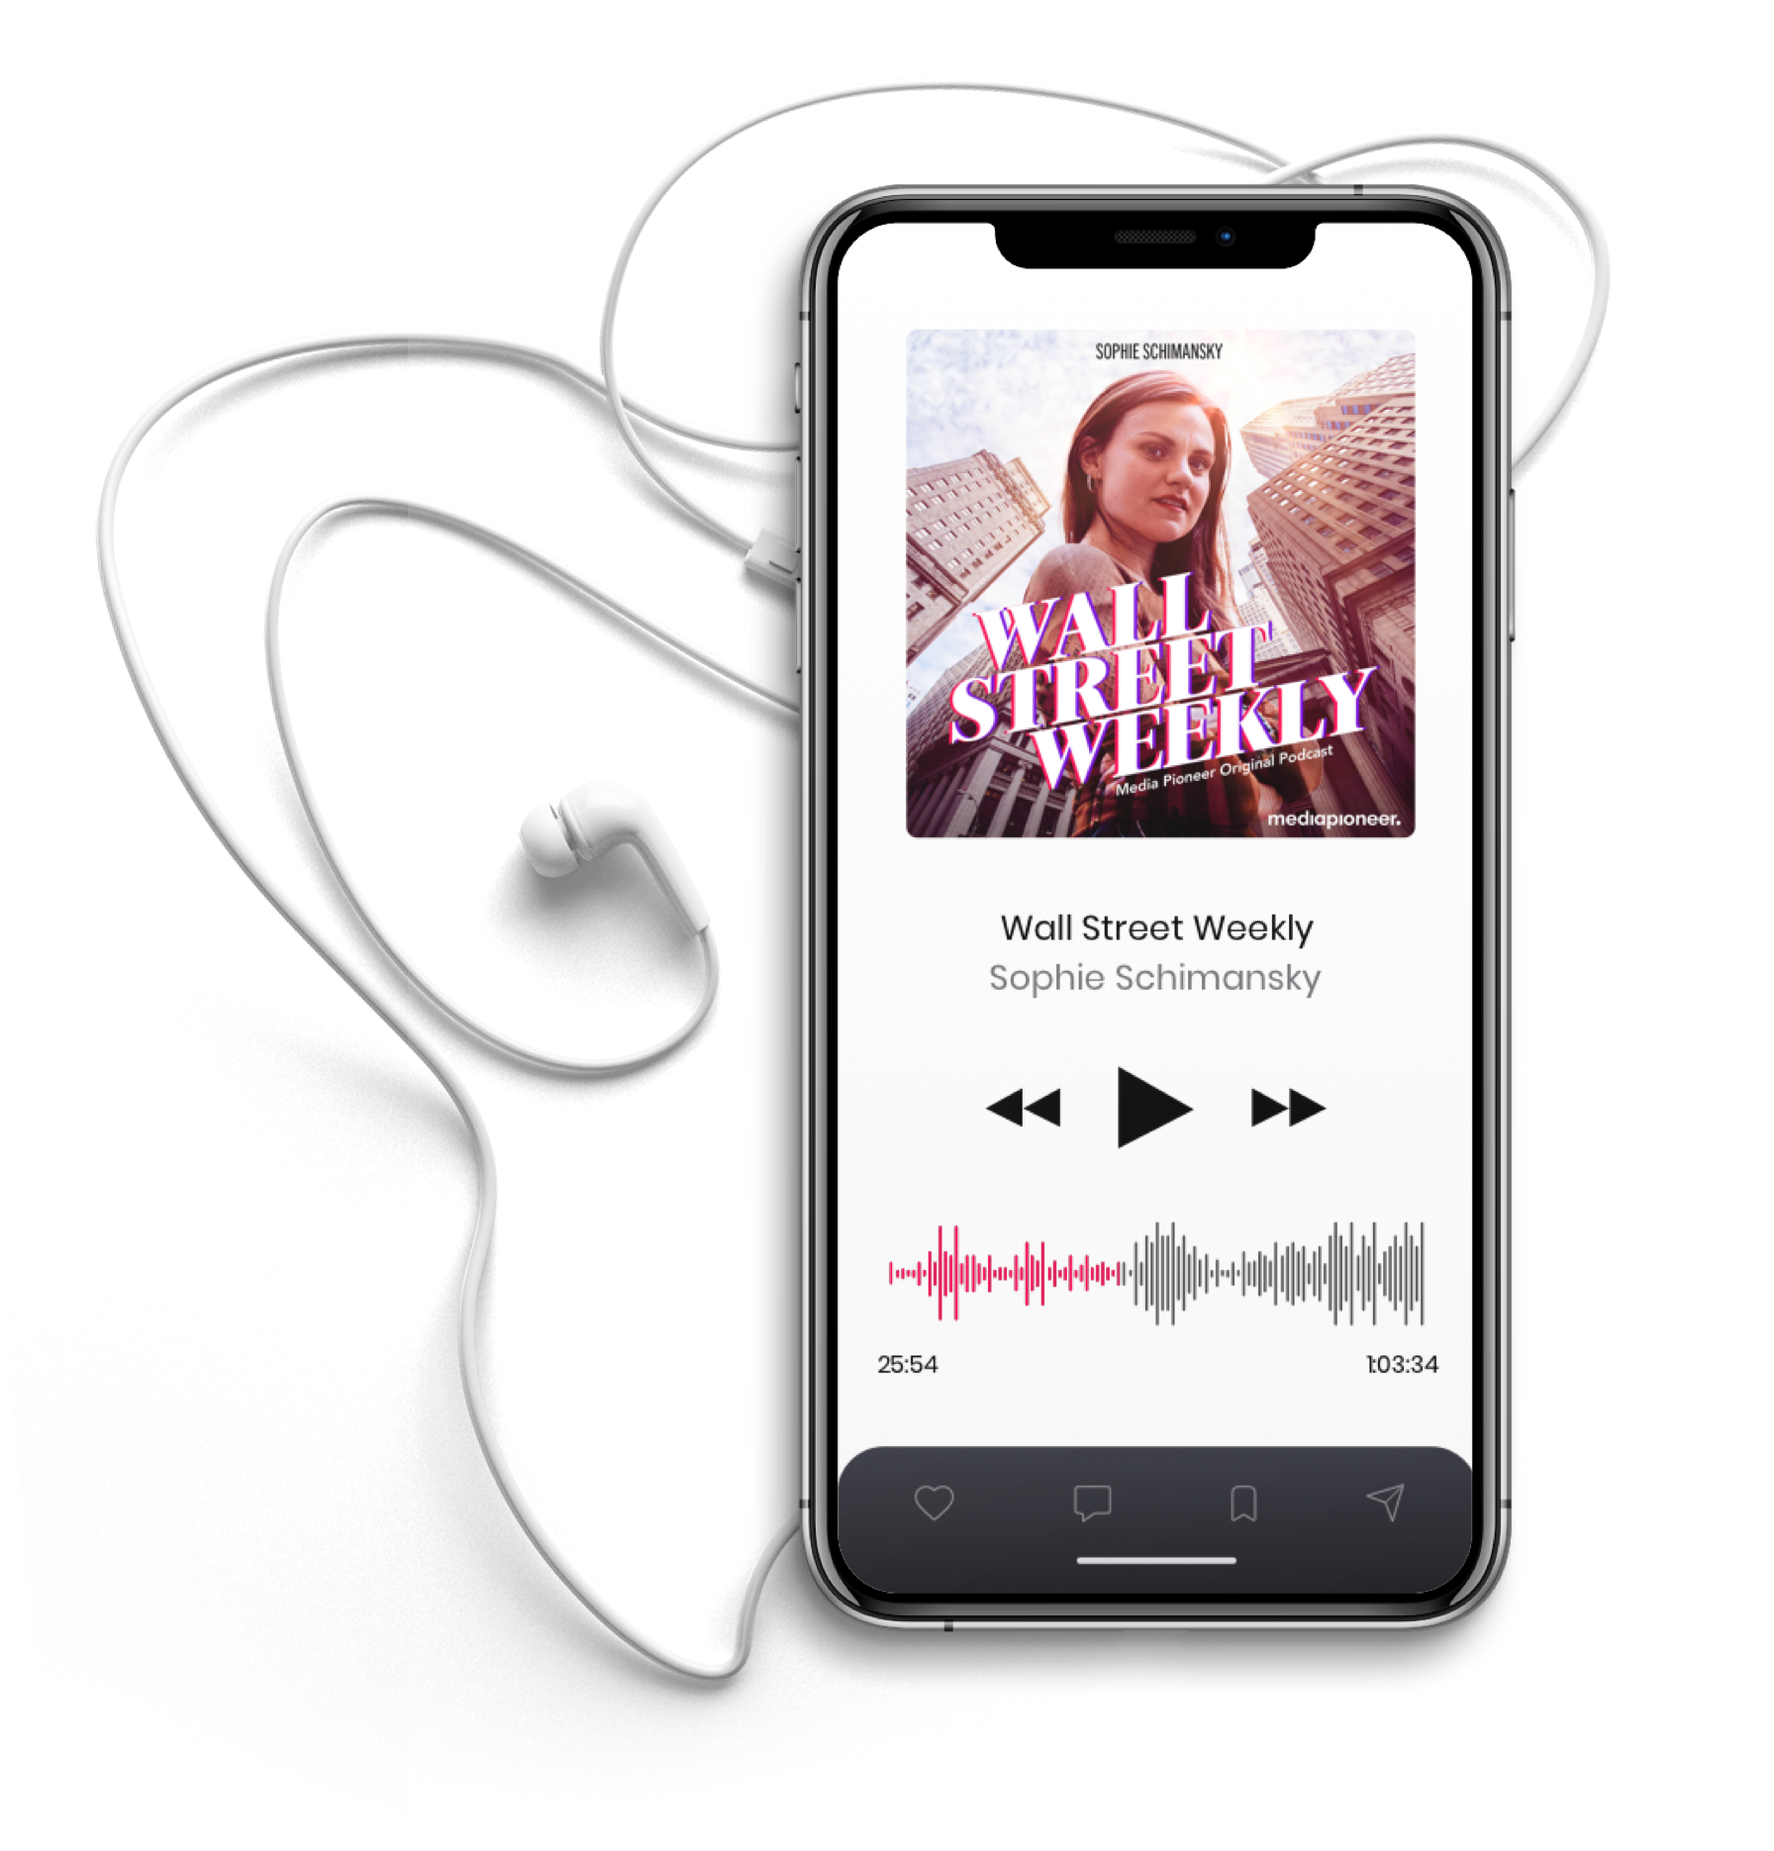
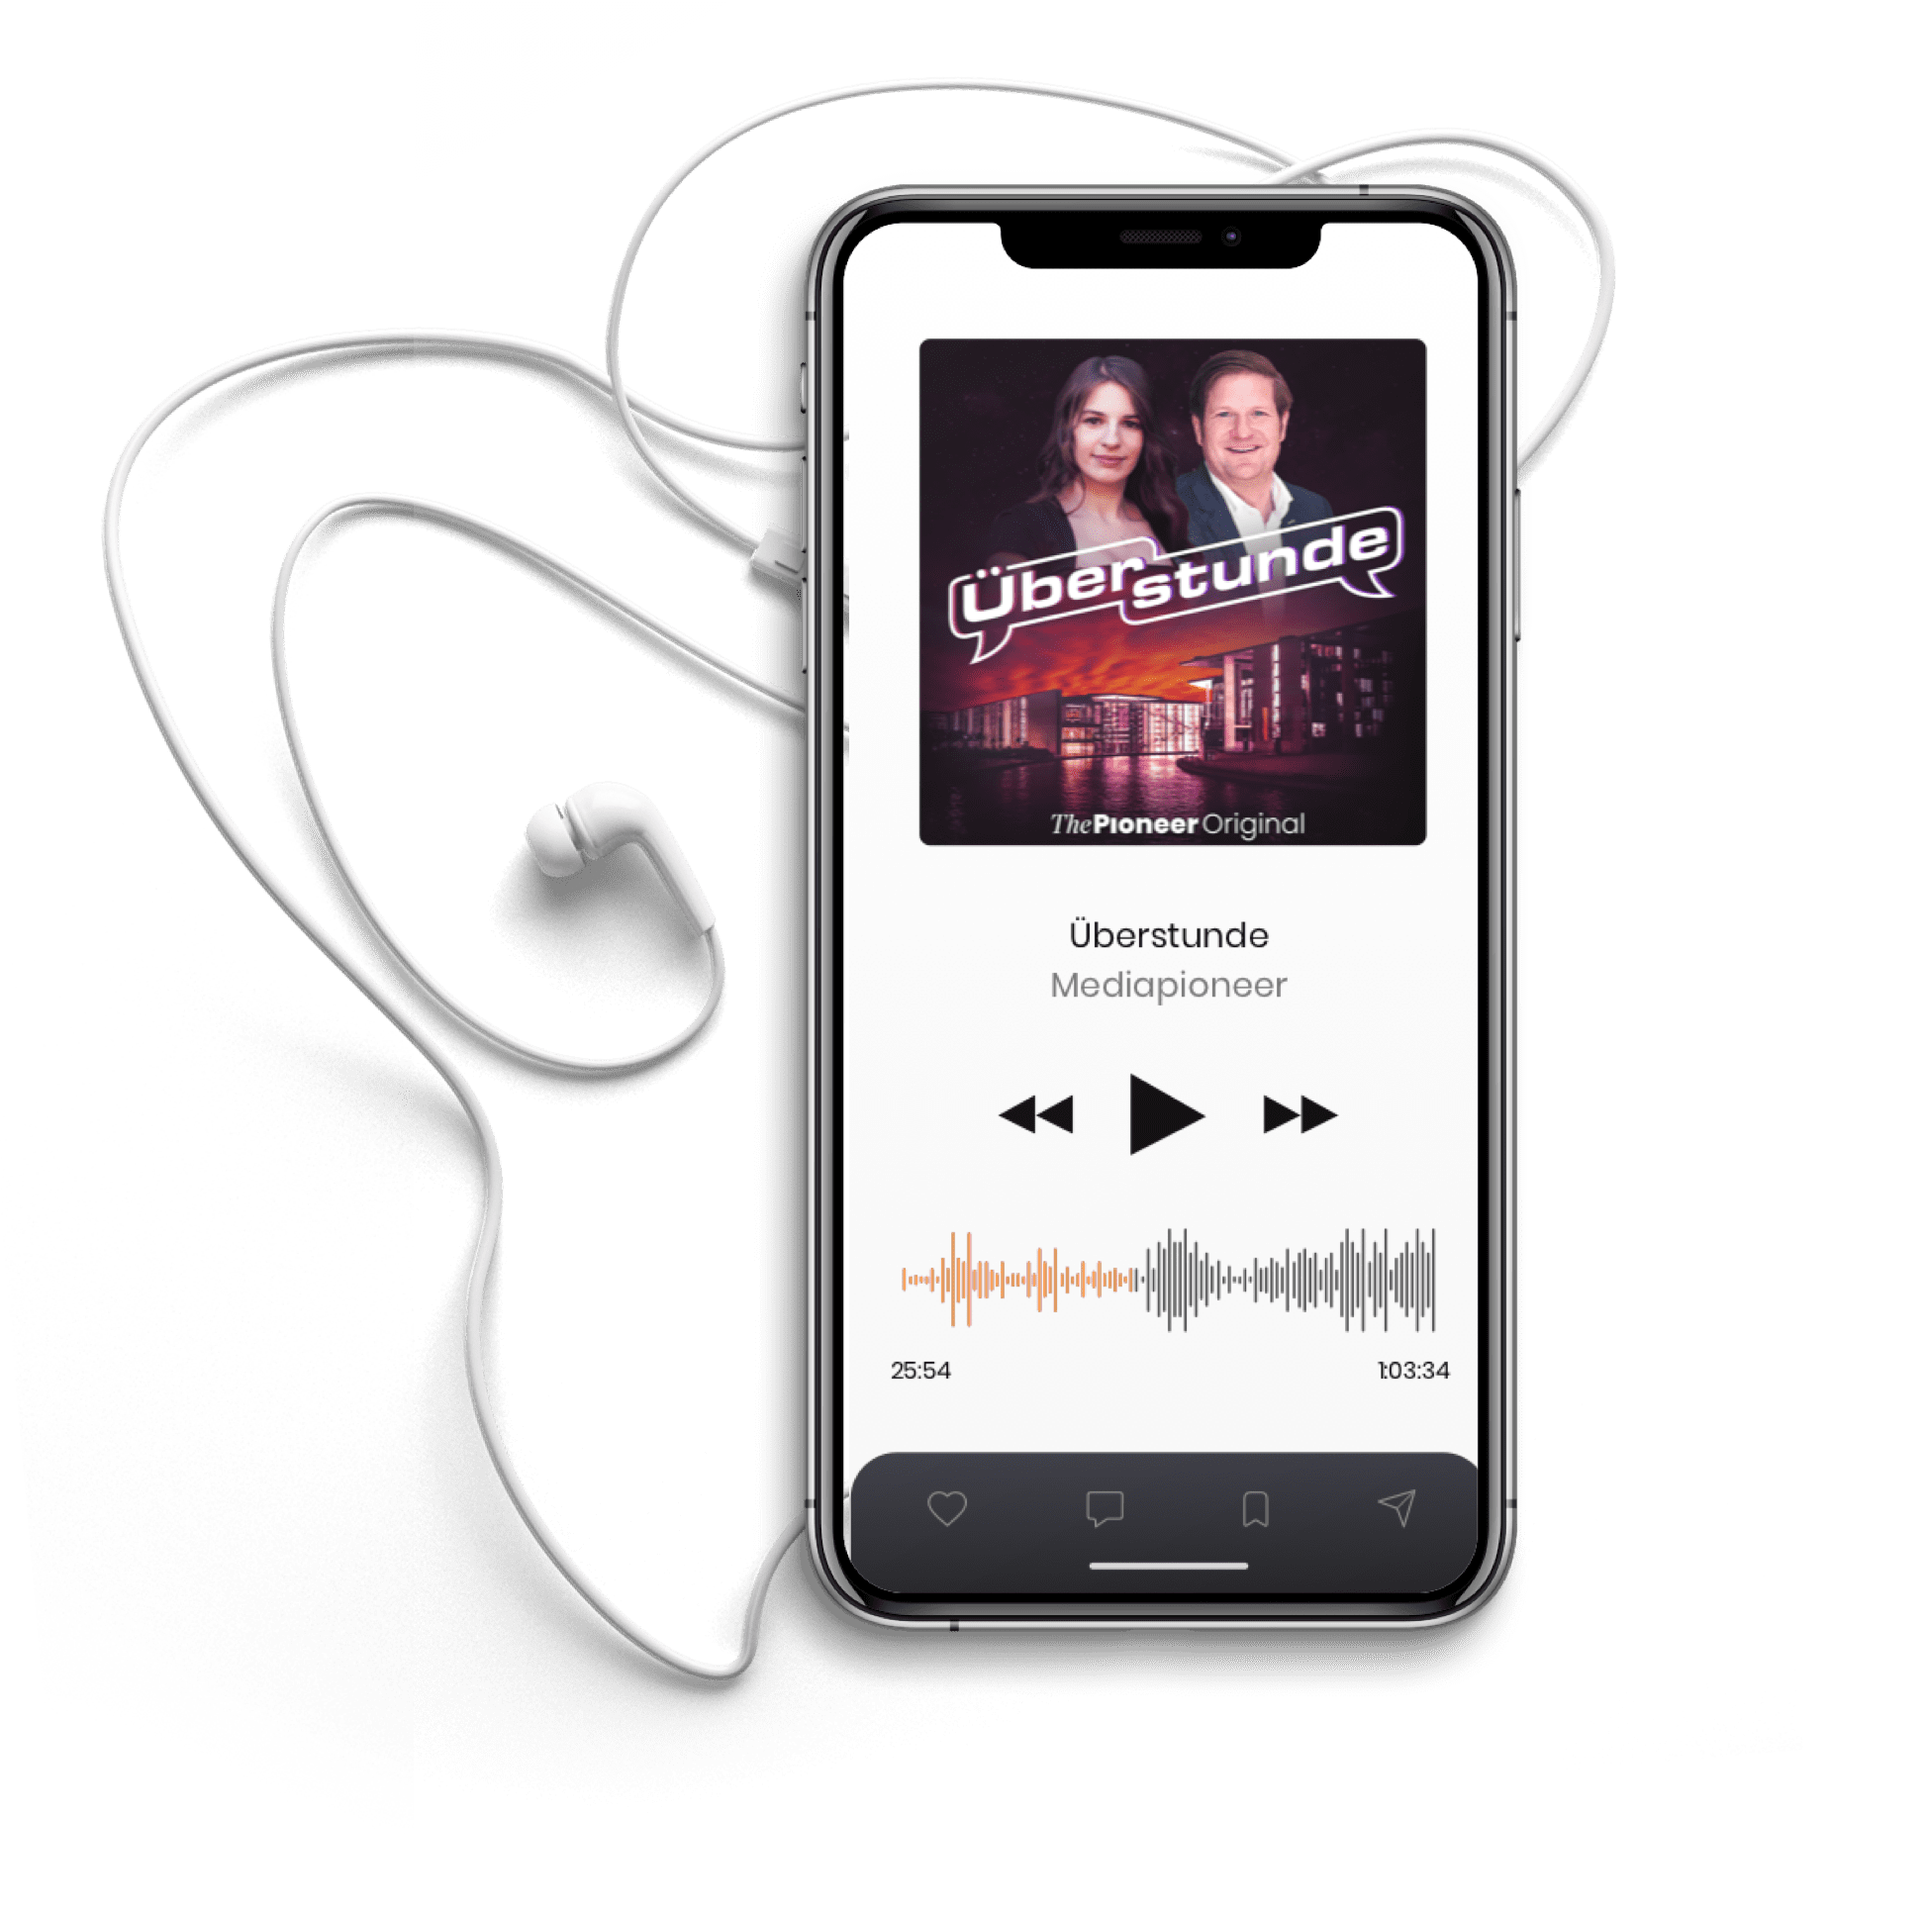
lots of changes

diff --git a/src/components/About.js b/src/components/About.js
@@ -7,17 +7,25 @@ import { ICONS } from "../theme/Icons"
 import { device } from "../theme/breakpoints"
 
 const StyledAbout = styled.section`
-  background: #e8edfa;
   width: 100%;
   padding: 48px 24px;
-  text-align: center;
+  background: #090006;
 
+  /* text-align: center; */
+  & p,
+  h2 {
+    color: #fff;
+  }
   & > div {
-    max-width: 740px;
+    max-width: 440px;
     margin: auto;
   }
   @media ${device.tablet} {
     padding: 80px 0;
+  }
+  @media ${device.laptop} {
+    display: grid;
+    grid-template-columns: repeat(2, 1fr);
   }
 `
 
@@ -26,13 +34,13 @@ const SocialContainer = styled.div`
     BlinkMacSystemFont, Arial, sans-serif; */
   /* font-family: Oswald; */
   font-size: 21.6px;
+  font-weight: 600;
   color: #ff0045;
   letter-spacing: 0.34px;
-  text-align: center;
   margin-top: 16px;
   text-transform: uppercase;
   display: flex;
-  justify-content: center;
+  justify-content: flex-start;
   align-items: flex-end;
 `
 
@@ -51,7 +59,49 @@ const StyledIcon = styled.div`
 const About = props => (
   <StyledAbout>
     <div>
-      <h2>Über Sophie</h2>
+      <h2>Über Marina</h2>
+      <p>
+        Sophie Schimansky ist Volkswirtin und Journalistin und berichtet seit
+        Jahren aus der Welt der Finanzen und Wirtschaft – für TV, Print und
+        Radio. Sie lebt seit 2015 in New York und fühlt sich besonders auf dem
+        Börsenparkett der Wall Street zu Hause.
+      </p>
+      <SocialContainer>
+        Folgen:
+        <a
+          href="https://www.linkedin.com/in/sophie-schimansky-88436158/"
+          target="_blank"
+          rel="noopener noreferrer"
+          aria-label="Sophie Schimansky on linkedIn"
+        >
+          <StyledIcon>
+            <Icon icon={ICONS.LINKEDIN} />
+          </StyledIcon>
+        </a>
+        <a
+          href="https://instagram.com/sophiesnews"
+          target="_blank"
+          rel="noopener noreferrer"
+          aria-label="Sophie Schimansky on instagram"
+        >
+          <StyledIcon>
+            <Icon icon={ICONS.INSTAGRAM} />
+          </StyledIcon>
+        </a>
+        <a
+          href="https://twitter.com/soschimansky"
+          target="_blank"
+          rel="noopener noreferrer"
+          aria-label="Sophie Schimansky on twitter"
+        >
+          <StyledIcon>
+            <Icon icon={ICONS.TWITTER} />
+          </StyledIcon>
+        </a>
+      </SocialContainer>
+    </div>
+    <div>
+      <h2>Über Michael</h2>
       <p>
         Sophie Schimansky ist Volkswirtin und Journalistin und berichtet seit
         Jahren aus der Welt der Finanzen und Wirtschaft – für TV, Print und

diff --git a/src/components/MPProducts.js b/src/components/MPProducts.js
@@ -3,6 +3,7 @@ import styled from "styled-components"
 import { device } from "../theme/breakpoints"
 import MBPodcastImage from "./ImageComponents/MBPodcastImage"
 import TheAmericansPodcastImage from "./ImageComponents/TheAmericansPodcastImage"
+import WallStreetWeeklyPodcastImage from "./ImageComponents/WallStreetWeeklyPodcastImage"
 // import MBNewsletterImage from "./ImageComponents/MBNewsletterImage"
 // import PioneerBlogImage from "./ImageComponents/PioneerBlogImage"
 // import PioneerOneImage from "./ImageComponents/PioneerOneImage"
@@ -31,10 +32,10 @@ const StyledLogo = styled.img`
 `
 const ProductContainer = styled.div`
   width: 100%;
-  max-width: 600px;
+  max-width: 900px;
   margin: auto;
   display: grid;
-  grid-template-columns: repeat(2, minmax(100px, 1fr));
+  grid-template-columns: repeat(3, minmax(100px, 1fr));
   margin-top: 32px;
   grid-gap: 12px;
   justify-content: center;
@@ -103,6 +104,14 @@ const MPProducts = props => (
         >
           <TheAmericansPodcastImage></TheAmericansPodcastImage>
           <p>The Americans – mit Chelsea Spieker</p>
+        </a>
+        <a
+          href="https://wall-street-weekly.com"
+          target="_blank"
+          rel="noopener noreferrer"
+        >
+          <WallStreetWeeklyPodcastImage></WallStreetWeeklyPodcastImage>
+          <p>Wall Street Weekly – mit Sophie Schimanski</p>
         </a>
 
         {/*<a

diff --git a/src/components/Hero.js b/src/components/Hero.js
@@ -12,17 +12,21 @@ const StyledHero = styled.section`
   position: relative;
   display: block;
   width: 100%;
-  /* background: #090006; */
+  background: #090006;
 `
 const ContentContainer = styled.div`
   max-width: 1256px;
   margin: auto;
+  position: relative;
+  /* overflow-y: hidden; */
+  overflow-x: visible;
+
   @media ${device.laptop} {
     display: grid;
     grid-template-columns: repeat(4, 1fr);
-    grid-row: auto;
+    grid-template-rows: 750px;
+    /* grid-row: auto; */
     height: 750px;
-    overflow: hidden;
     align-items: center;
   }
 `
@@ -31,9 +35,14 @@ const HeroContent = styled.div`
   position: relative;
   z-index: 1;
   padding: 24px;
-  max-width: 560px;
+  max-width: 748px;
+  margin: auto;
+  & > p {
+    color: #fff;
+  }
   & > h1 {
     /* margin-bottom: 1rem; */
+    color: #fff;
   }
   @media ${device.laptop} {
     grid-column: 1/3;
@@ -55,9 +64,9 @@ const Hero = props => (
   <StyledHero>
     <HeroImage></HeroImage>
     <ContentContainer>
-      <HeroImageMobile></HeroImageMobile>
+      {/* <HeroImageMobile></HeroImageMobile> */}
       <HeroContent>
-        <h1>Wall Street Weekly</h1>
+        <h1>Überstunde – mit Marina Weisband und Michael Bröcker</h1>
         <p>
           Börsen-Reporterin Sophie Schimansky berichtet live aus New York über
           die Themen, die Börsianer und Anleger bewegen. Dazu: verständliche

diff --git a/src/components/ImageComponents/HeroImage.js b/src/components/ImageComponents/HeroImage.js
@@ -5,15 +5,22 @@ import styled from "styled-components"
 import { device } from "../../theme/breakpoints"
 
 const StyledImage = styled(Img)`
-  display: none;
+  display: block;
+  position: relative;
+  margin-top: -50px;
+  margin-bottom: -100px;
+  z-index: 0;
 
   @media ${device.laptop} {
-    display: block;
-    top: 0;
-    height: 100%;
-    width: 100%;
-    z-index: -1;
     position: absolute !important;
+    margin-top: 0;
+    margin-bottom: -100px;
+    top: 0;
+    right: 0;
+    left: 40%;
+    max-height: 100%;
+    max-height: 100%;
+    max-width: 80%;
   }
 `
 
@@ -35,8 +42,8 @@ const HeroImage = () => (
       return (
         <StyledImage
           fluid={image.fluid}
-          imgStyle={{ objectFit: "cover", objectPosition: "100% 100%" }}
-          alt="Sophie Schimansky vor den Wolkenkratzern der Wall Street"
+          imgStyle={{ objectFit: "cover" }}
+          alt="Marina Weisband und Michael Bröcker über dem Sonnenuntergang in Berlin"
         />
       )
     }}

diff --git a/src/components/ImageComponents/WallStreetWeeklyPodcastImage.js b/src/components/ImageComponents/WallStreetWeeklyPodcastImage.js
@@ -1,0 +1,35 @@
+import React from "react"
+import { StaticQuery, graphql } from "gatsby"
+import Img from "gatsby-image"
+import styled from "styled-components"
+
+const StyledImage = styled(Img)`
+  margin-bottom: 16px;
+  box-shadow: 0 1px 11px 8px rgba(174, 174, 174, 0.12);
+`
+
+const MBPodcastImage = () => (
+  <StaticQuery
+    query={graphql`
+      query {
+        file(relativePath: { eq: "products/wall-street-weekly-podcast.jpg" }) {
+          childImageSharp {
+            fluid(maxWidth: 200) {
+              ...GatsbyImageSharpFluid_withWebp_noBase64
+            }
+          }
+        }
+      }
+    `}
+    render={data => {
+      const image = data.file.childImageSharp
+      return (
+        <StyledImage
+          fluid={image.fluid}
+          alt="Frau guckt mit festem Blick in die Kamera, daneben The Americans Schriftzug"
+        />
+      )
+    }}
+  />
+)
+export default MBPodcastImage

diff --git a/src/templates/episode.js b/src/templates/episode.js
@@ -86,6 +86,9 @@ const ContentContainer = styled.section`
   display: flex;
   flex-direction: column;
   justify-content: center;
+  & > h1 {
+    color: #fff;
+  }
   @media ${device.tablet} {
     padding: 36px 24px;
   }
@@ -188,7 +191,7 @@ const EpisodeTemplate = ({ data: { podcast, ogimage, site }, location }) => {
           alt={podcast.image.description}
         />
         <ContentContainer>
-          <SmallLabel>{podcast.createdAt}</SmallLabel>
+          <SmallLabel color="white">{podcast.createdAt}</SmallLabel>
           <h1>{podcast.title}</h1>
           <PodigeePlayer source={podcast.podcastSlug}></PodigeePlayer>
         </ContentContainer>

diff --git a/src/components/Navigation.js b/src/components/Navigation.js
@@ -11,6 +11,8 @@ const StyledNav = styled.header`
   height: 142px;
   background: #ffffff;
   box-shadow: 0 2px 4px 0 rgba(0, 0, 0, 0.09);
+  position: relative;
+  z-index: 100;
   @media ${device.laptop} {
     height: 165px;
   }
@@ -52,6 +54,9 @@ const StyledLogo = styled(Link)`
     width: 200px;
     height: auto;
     @media ${device.laptop} {
+      width: 250px;
+    }
+    @media ${device.laptopL} {
       width: 320px;
     }
   }

diff --git a/src/components/RecentEpisodes.js b/src/components/RecentEpisodes.js
@@ -53,10 +53,7 @@ export default () => (
     `}
     render={data => (
       <StyledRecentEpisodes>
-        <h2>Aktuelle Folgen</h2>
-        {/* <img src={headlineBG} alt="Airplanes flying away from headline" /> */}
-        {/* <StyledHeadline>
-        </StyledHeadline> */}
+        <h2>Aktuelle Beiträge</h2>
         {data.allContentfulPost.edges.map(({ node }) => (
           <EpisodeLink
             key={node.id}

diff --git a/src/components/EpisodeLink.js b/src/components/EpisodeLink.js
@@ -32,12 +32,9 @@ const StyledH3Link = styled(Link)`
 `
 
 const StyledLink = styled(Link)`
-  /* font-family: Oswald, "Open Sans", -apple-system, BlinkMacSystemFont, Arial,
-    sans-serif; */
-  font-size: 16px;
-  color: #ff0045;
-  letter-spacing: 0.25px;
-  text-transform: uppercase;
+  font-size: 19px;
+  color: #7300dc;
+  /* text-transform: uppercase; */
 `
 
 const EpisodeLink = props => (

diff --git a/src/components/SmallLabel.js b/src/components/SmallLabel.js
@@ -3,7 +3,7 @@ import styled from "styled-components"
 
 const StyledSmall = styled.small`
   margin-bottom: 8px;
-  color: #575757;
+  color: ${props => (props.color ? props.color : "#575757")};
   letter-spacing: 1.33px;
 `
 

diff --git a/src/theme/font-face.css b/src/theme/font-face.css
@@ -128,7 +128,7 @@ a {
 /* Laptop */
 @media (min-width: 1024px) {
   body {
-    font-size: 22px;
+    font-size: 19px;
   }
   h1 {
     font-size: 46px;
